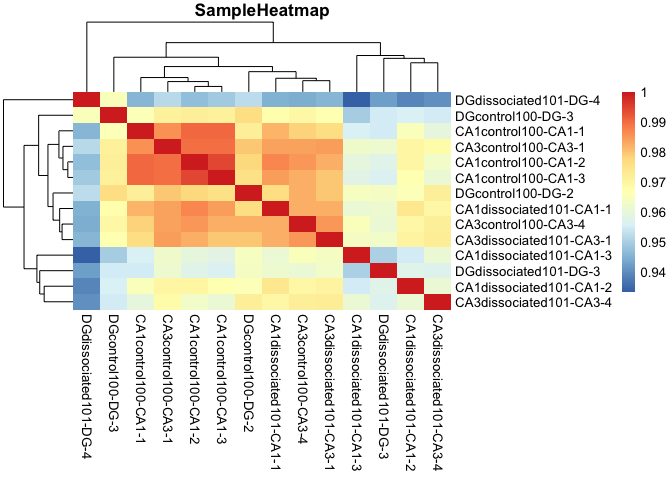
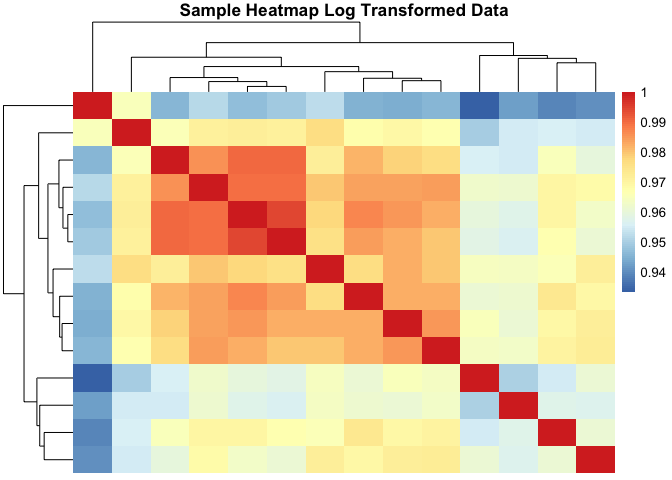
new figures

diff --git a/markdownfiles/01_DissociationTest.md b/markdownfiles/01_DissociationTest.md
@@ -128,6 +128,11 @@ subseting the data to identify genes of interest?
 
 ![](../figures/01_dissociationtest/HeatmapPadj-1.png)
 
+This shows how strongly correlated the samples are. Even across brain
+regions, correlation is super fucking hight.
+
+![](../figures/01_dissociationtest/sampleheatmap-1.png)![](../figures/01_dissociationtest/sampleheatmap-2.png)
+
 This is a data validation check plot. Here, I'm showing how many
 millions of reads were present in each sample. On average, each sample
 had 5 million reads, but the range was from 0.8 to 10 millino reads.
@@ -145,89 +150,5 @@ had 5 million reads, but the range was from 0.8 to 10 millino reads.
     FALSE   15   16   17   18   19   20   21   22   23   24   25   26   27   28   29 
     FALSE   96   91   81   84   80   82   82   73   67   68   68   62   56   60   68
 
-These next graphs show the correlation between samples of CA1, CA3, and
-DG.
-
-![](../figures/01_dissociationtest/scatterplots-1.png)![](../figures/01_dissociationtest/scatterplots-2.png)
-
-This next plot shows the stregnth of the correlation between samples.
-
-![](../figures/01_dissociationtest/correlationmatrix-1.png)
-
 Save files for GO analysis. A total of 217 DEGs with unadjusted p-value
 &lt; 0.1 were input into the GO anlaysis.
-
-    rld <- rlogTransformation(dds)
-    head(assay(rld))
-
-    ##               100-CA1-1 100-CA1-2 100-CA1-3 100-CA3-1 100-CA3-4 100-DG-2
-    ## 0610007P14Rik 3.5995351  3.790404 3.8704858 4.1208806 4.1989841 4.255601
-    ## 0610009B22Rik 2.1590559  2.707684 2.0431224 2.6448498 2.0159499 2.651163
-    ## 0610009L18Rik 1.4931716  2.425456 1.2970543 2.4611627 2.0847477 1.594549
-    ## 0610009O20Rik 4.7233740  5.314397 5.1705766 5.6247761 5.4613965 5.641163
-    ## 0610010F05Rik 2.3800261  2.479708 2.4360218 2.2917875 2.4704070 2.488071
-    ## 0610010K14Rik 0.3022043  0.332851 0.2985802 0.1973599 0.3903414 0.269161
-    ##                100-DG-3 101-CA1-1 101-CA1-2 101-CA1-3  101-CA3-1
-    ## 0610007P14Rik 4.0935099 3.9721358 2.9341147 2.5612903 4.13618006
-    ## 0610009B22Rik 2.4832752 2.2845668 3.1979993 1.7277362 2.85895766
-    ## 0610009L18Rik 2.6263074 1.9406482 1.7805353 1.5203779 2.25283859
-    ## 0610009O20Rik 5.2867893 5.5066598 4.9707980 5.1562400 5.60263405
-    ## 0610010F05Rik 2.3849418 2.1220065 2.6067576 2.2536438 2.01566965
-    ## 0610010K14Rik 0.4326066 0.4734489 0.3929896 0.2469774 0.04369077
-    ##                101-CA3-4  101-DG-3  101-DG-4
-    ## 0610007P14Rik 4.07201279 4.6041895 3.1841046
-    ## 0610009B22Rik 2.46109194 3.0350883 1.4928936
-    ## 0610009L18Rik 1.73221613 3.5545058 3.2983879
-    ## 0610009O20Rik 5.28635863 6.0349705 4.9438768
-    ## 0610010F05Rik 2.54003767 2.2344069 1.9424516
-    ## 0610010K14Rik 0.07695913 0.5530437 0.7417628
-
-    colnames(rld) <- paste(colData$Region, colData$Method, colData$RNAseqID, sep = "")
-    head(assay(rld))
-
-    ##               CA1control100-CA1-1 CA1control100-CA1-2 CA1control100-CA1-3
-    ## 0610007P14Rik           3.5995351            3.790404           3.8704858
-    ## 0610009B22Rik           2.1590559            2.707684           2.0431224
-    ## 0610009L18Rik           1.4931716            2.425456           1.2970543
-    ## 0610009O20Rik           4.7233740            5.314397           5.1705766
-    ## 0610010F05Rik           2.3800261            2.479708           2.4360218
-    ## 0610010K14Rik           0.3022043            0.332851           0.2985802
-    ##               CA3control100-CA3-1 CA3control100-CA3-4 DGcontrol100-DG-2
-    ## 0610007P14Rik           4.1208806           4.1989841          4.255601
-    ## 0610009B22Rik           2.6448498           2.0159499          2.651163
-    ## 0610009L18Rik           2.4611627           2.0847477          1.594549
-    ## 0610009O20Rik           5.6247761           5.4613965          5.641163
-    ## 0610010F05Rik           2.2917875           2.4704070          2.488071
-    ## 0610010K14Rik           0.1973599           0.3903414          0.269161
-    ##               DGcontrol100-DG-3 CA1dissociated101-CA1-1
-    ## 0610007P14Rik         4.0935099               3.9721358
-    ## 0610009B22Rik         2.4832752               2.2845668
-    ## 0610009L18Rik         2.6263074               1.9406482
-    ## 0610009O20Rik         5.2867893               5.5066598
-    ## 0610010F05Rik         2.3849418               2.1220065
-    ## 0610010K14Rik         0.4326066               0.4734489
-    ##               CA1dissociated101-CA1-2 CA1dissociated101-CA1-3
-    ## 0610007P14Rik               2.9341147               2.5612903
-    ## 0610009B22Rik               3.1979993               1.7277362
-    ## 0610009L18Rik               1.7805353               1.5203779
-    ## 0610009O20Rik               4.9707980               5.1562400
-    ## 0610010F05Rik               2.6067576               2.2536438
-    ## 0610010K14Rik               0.3929896               0.2469774
-    ##               CA3dissociated101-CA3-1 CA3dissociated101-CA3-4
-    ## 0610007P14Rik              4.13618006              4.07201279
-    ## 0610009B22Rik              2.85895766              2.46109194
-    ## 0610009L18Rik              2.25283859              1.73221613
-    ## 0610009O20Rik              5.60263405              5.28635863
-    ## 0610010F05Rik              2.01566965              2.54003767
-    ## 0610010K14Rik              0.04369077              0.07695913
-    ##               DGdissociated101-DG-3 DGdissociated101-DG-4
-    ## 0610007P14Rik             4.6041895             3.1841046
-    ## 0610009B22Rik             3.0350883             1.4928936
-    ## 0610009L18Rik             3.5545058             3.2983879
-    ## 0610009O20Rik             6.0349705             4.9438768
-    ## 0610010F05Rik             2.2344069             1.9424516
-    ## 0610010K14Rik             0.5530437             0.7417628
-
-    pheatmap(cor(assay(rld)),border_color=NA, main="SampleHeatmap")
-
-![](../figures/01_dissociationtest/sampleheatmap-1.png)
